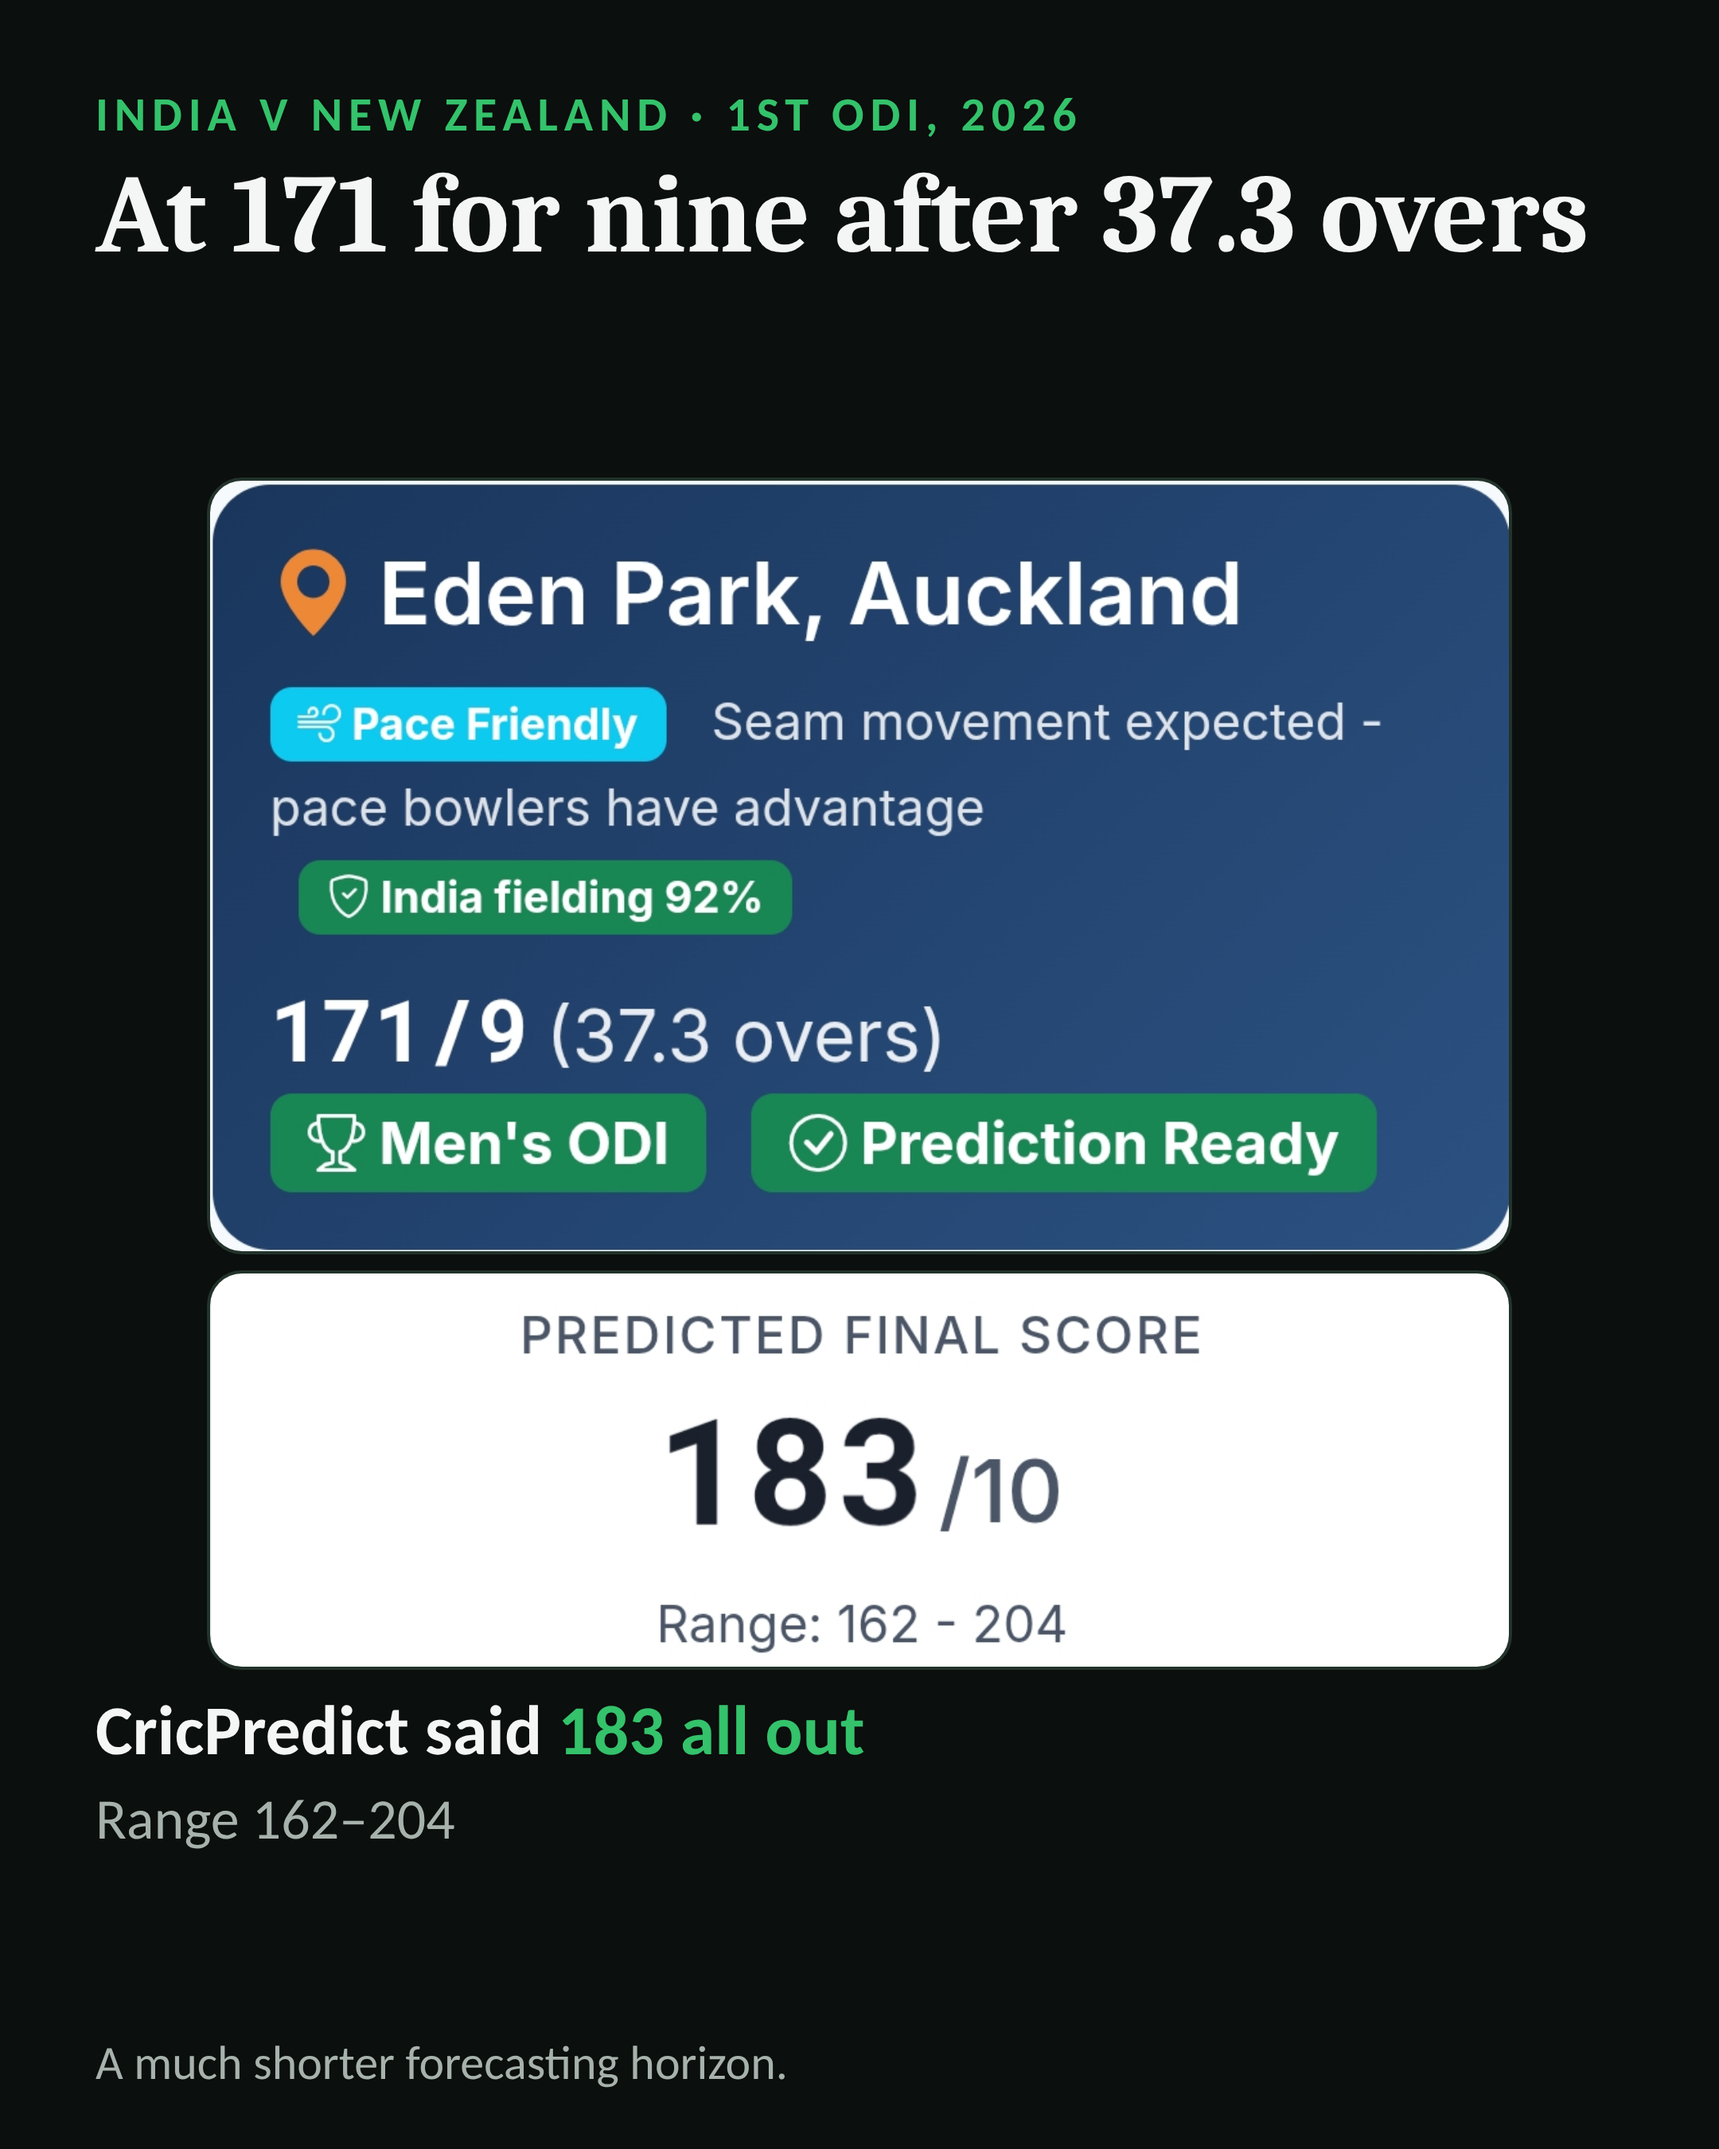
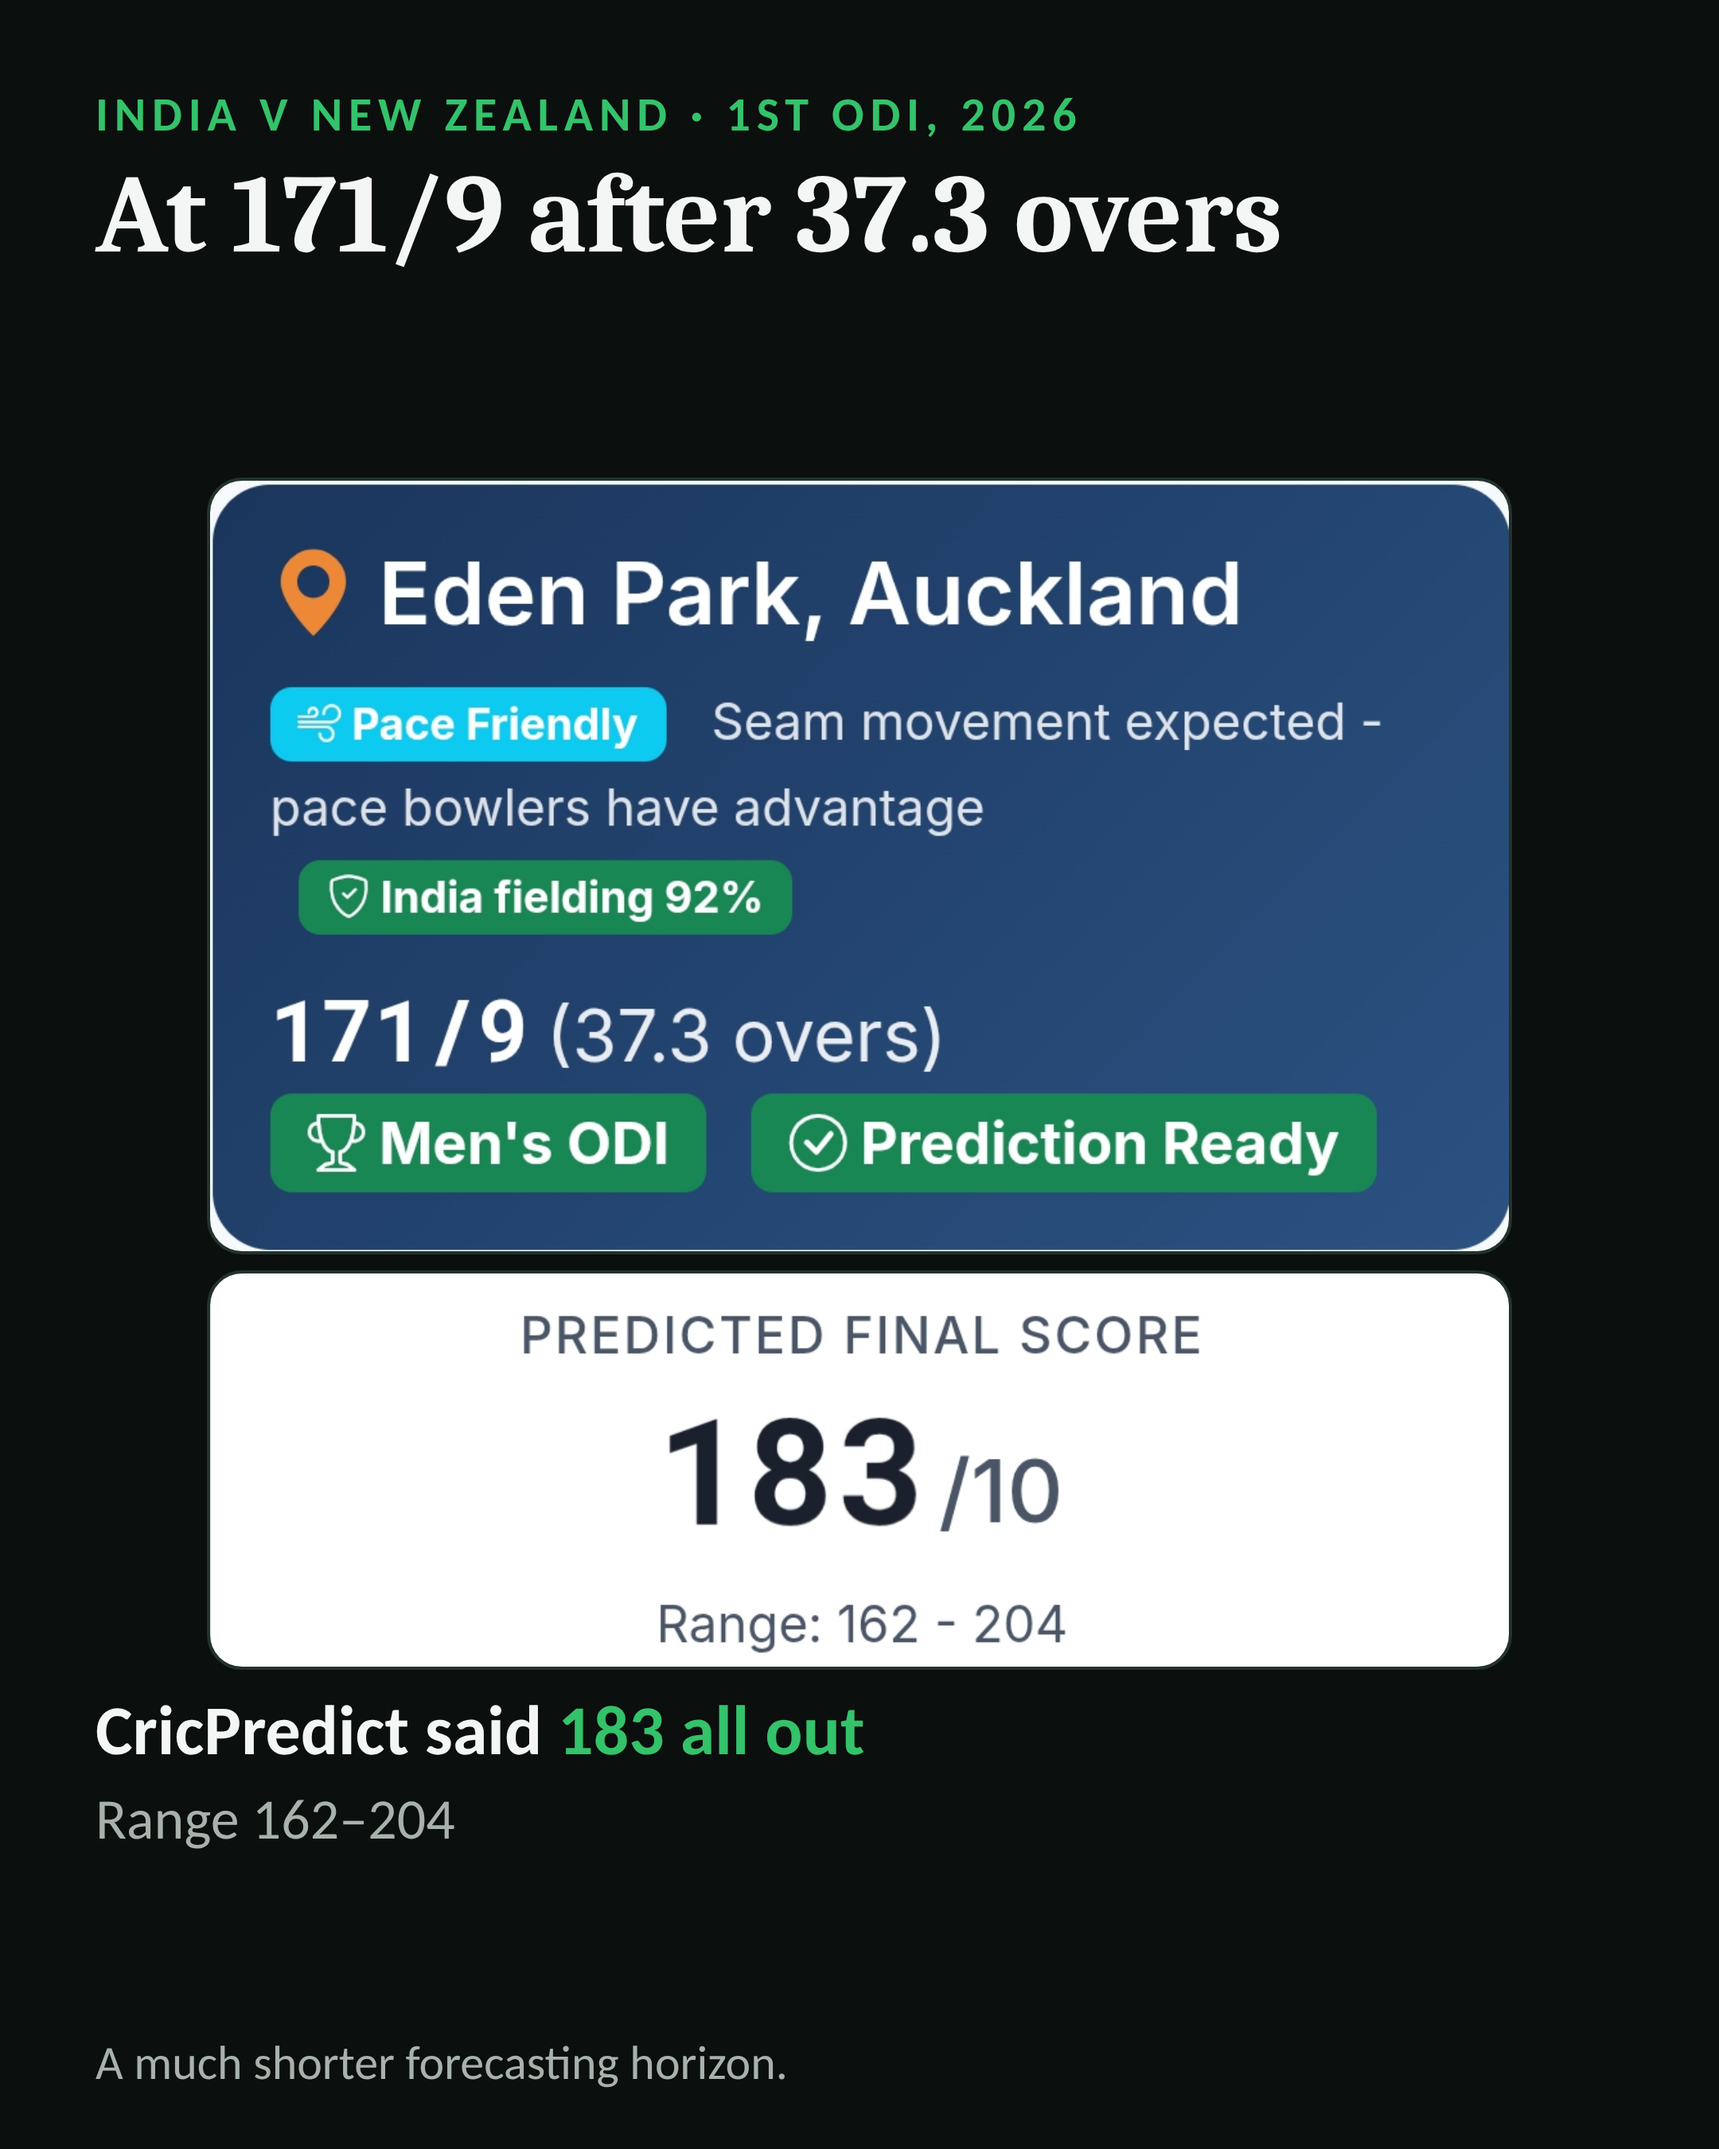
Slide fixes: 84/4 notation, no zoom on score slides, correct what public data shows
Claude-Session: https://claude.ai/code/session_01WemNfgRxdciwJG2j1zSRxe

Changed region(s): [[0.2171, 0.0622, 0.9306, 0.1244]]

diff --git a/presentation/video/linkedin_draft/scenes.html b/presentation/video/linkedin_draft/scenes.html
@@ -61,7 +61,7 @@ h1{position:absolute;left:60px;top:100px;width:960px;font-family:Caladea,Georgia
 <!-- 03a NZ v IND, prediction at 84/4 -->
 <section class="scene" id="s03a_nz_pred">
   <div class="abs kicker">India v New Zealand · 1st ODI, 2026</div>
-  <h1>At 84 for four after 17 overs</h1>
+  <h1>At 84/4 after 17 overs</h1>
   <img class="shot" src="assets/crops/banner_84.png" style="left:130px;top:300px;width:820px">
   <img class="shot" src="assets/crops/score_199.png" style="left:130px;top:798px;width:820px">
   <div class="abs take">CricPredict said <span class="green">199/7</span><small>Range 170–228</small></div>
@@ -70,7 +70,7 @@ h1{position:absolute;left:60px;top:100px;width:960px;font-family:Caladea,Georgia
 <!-- 03b result -->
 <section class="scene" id="s03b_nz_result">
   <div class="abs kicker">India v New Zealand · 1st ODI, 2026</div>
-  <h1>At 84 for four after 17 overs</h1>
+  <h1>At 84/4 after 17 overs</h1>
   <img class="shot" src="assets/crops/banner_84.png" style="left:130px;top:300px;width:820px">
   <img class="shot" src="assets/crops/score_199.png" style="left:130px;top:798px;width:820px">
   <div class="abs take">Finished <span class="mint">185 all out</span><small>14 runs lower, 3 wickets more than predicted</small></div>
@@ -80,7 +80,7 @@ h1{position:absolute;left:60px;top:100px;width:960px;font-family:Caladea,Georgia
 <!-- 04a 171/9 prediction -->
 <section class="scene" id="s04a_171_pred">
   <div class="abs kicker">India v New Zealand · 1st ODI, 2026</div>
-  <h1>At 171 for nine after 37.3 overs</h1>
+  <h1>At 171/9 after 37.3 overs</h1>
   <img class="shot" src="assets/crops/banner_171.png" style="left:130px;top:300px;width:820px">
   <img class="shot" src="assets/crops/score_183.png" style="left:130px;top:798px;width:820px">
   <div class="abs take">CricPredict said <span class="green">183 all out</span><small>Range 162–204</small></div>
@@ -89,7 +89,7 @@ h1{position:absolute;left:60px;top:100px;width:960px;font-family:Caladea,Georgia
 <!-- 04b result -->
 <section class="scene" id="s04b_171_result">
   <div class="abs kicker">India v New Zealand · 1st ODI, 2026</div>
-  <h1>At 171 for nine after 37.3 overs</h1>
+  <h1>At 171/9 after 37.3 overs</h1>
   <img class="shot" src="assets/crops/banner_171.png" style="left:130px;top:300px;width:820px">
   <img class="shot" src="assets/crops/score_183.png" style="left:130px;top:798px;width:820px">
   <div class="abs take">Finished <span class="mint">185 all out</span><small>Two runs off</small></div>
@@ -123,8 +123,8 @@ h1{position:absolute;left:60px;top:100px;width:960px;font-family:Caladea,Georgia
 <section class="scene" id="s06_public_data">
   <div class="abs kicker">Why not just measure it?</div>
   <h1>Public data can't see most of fielding.</h1>
-  <div class="panel" style="top:318px;height:150px"><div class="lab green">RECORDED</div><div class="row" style="margin-top:8px"><span class="chip ok">✔ Catch taken</span><span class="chip ok">✔ Run-out</span></div></div>
-  <div class="panel" style="top:486px;height:268px"><div class="lab amber">NOT RECORDED</div><div class="row"><span class="chip no">✖ Dropped catch</span><span class="chip no">✖ Misfield</span><span class="chip no">✖ Direct hit</span><span class="chip no">✖ Runs saved</span></div></div>
+  <div class="panel" style="top:318px;height:150px"><div class="lab green">RECORDED</div><div class="row" style="margin-top:8px"><span class="chip ok">✔ Catch taken</span><span class="chip ok">✔ Run-out, incl. direct hits</span></div></div>
+  <div class="panel" style="top:486px;height:268px"><div class="lab amber">NOT RECORDED</div><div class="row"><span class="chip no">✖ Dropped catches</span><span class="chip no">✖ Runs saved by brilliant effort</span><span class="chip no">✖ How hard the catch was</span></div></div>
   <div class="panel" style="top:772px;height:262px;padding-top:22px"><div style="font-size:35px;line-height:1.25">Catches and wickets alone mix up fielding with bowling and team quality.</div><div style="font-size:35px;line-height:1.25;margin-top:12px;color:var(--muted)">Event-level fielding data exists, but under paid licences. CricPredict uses free sources only.</div></div>
   <div class="abs take" style="font-size:40px">Fielders are named only on successful dismissals.</div>
 </section>

diff --git a/presentation/video/linkedin_draft/tools/build_talking.py b/presentation/video/linkedin_draft/tools/build_talking.py
@@ -15,7 +15,7 @@ def run(c): subprocess.run(c, check=True, stdout=subprocess.DEVNULL)
 out = subprocess.run(["ffmpeg", "-hide_banner", "-nostats", "-i", SRC, "-af", "silencedetect=n=-42dB:d=0.6", "-f", "null", "-"], capture_output=True, text=True).stderr
 st = [float(x) for x in re.findall(r"silence_start: ([\d.e+-]+)", out)]; en = [float(x) for x in re.findall(r"silence_end: ([\d.e+-]+)", out)]
 sil = [(s, e) for s, e in zip(st, en) if e - s >= cfg["trim_pauses_over"]]
-P = cfg.get('pip', {'size': 250, 'x': 790, 'y': 1060}); pad = cfg["pad"]; fx = cfg["face_center_x"]; cx = int(1280 * fx)
+ZOOM = cfg.get('zoom', 0.0); P = cfg.get('pip', {'size': 250, 'x': 790, 'y': 1060}); pad = cfg["pad"]; fx = cfg["face_center_x"]; cx = int(1280 * fx)
 segs = []; total = 0.0
 for i, b in enumerate(cfg["beats"]):
     a0, b0 = b["src"]; parts = []; t = a0
@@ -37,7 +37,7 @@ for i, b in enumerate(cfg["beats"]):
         run(base + ["-i", str(clip), "-loop", "1", "-framerate", str(FPS), "-t", f"{dur:.3f}", "-i", str(art), "-filter_complex", fc, "-map", "[v]", "-map", "0:a", "-c:v", "libx264", "-crf", "16", "-preset", "veryfast", "-r", str(FPS), "-c:a", "aac", "-b:a", "192k", "-t", f"{dur:.3f}", str(seg)])
     else:
         x0 = max(0, min(1280 - 720, cx - 360))
-        zoom = f"scale=1620:2025,scale=w='trunc(1620*(1+0.04*t/{dur:.3f})/2)*2':h=-2:eval=frame,crop=1620:2025:(iw-1620)/2:(ih-2025)*0.40,scale={W}:{H}"
+        zoom = f"scale=1620:2025,scale=w='trunc(1620*(1+{ZOOM}*t/{dur:.3f})/2)*2':h=-2:eval=frame,crop=1620:2025:(iw-1620)/2:(ih-2025)*0.40,scale={W}:{H}"
         fc = (f"[1:v]{zoom},fps={FPS}[z];[0:v]crop=720:720:{x0}:0,scale={P['size']}:{P['size']},format=rgba,geq=r='r(X,Y)':g='g(X,Y)':b='b(X,Y)':a='if(lte(hypot(X-{P['size']/2},Y-{P['size']/2}),{P['size']/2}),255,0)'[fc];"
               f"[2:v]scale={P['size']}:{P['size']}[r];[z][fc]overlay={P['x']}:{P['y']}[a1];[a1][r]overlay={P['x']}:{P['y']},format=yuv420p[v]")
         run(base + ["-i", str(clip), "-loop", "1", "-framerate", str(FPS), "-t", f"{dur:.3f}", "-i", str(art), "-loop", "1", "-framerate", str(FPS), "-t", f"{dur:.3f}", "-i", str(R / "assets" / "placeholders" / "ring.png"),

diff --git a/presentation/video/fielding_video_script_v4.md b/presentation/video/fielding_video_script_v4.md
@@ -10,13 +10,13 @@ I'm building CricPredict: a cricket prediction app for fans. Entertainment only,
 
 First ODI of India's 2026 tour of New Zealand. Virat Kohli took a one-handed diving catch at second slip to dismiss Nathan Smith. Rohit Sharma made a sharp run-out assist. Moments like these swing a match.
 
-At 84 for four after 17 overs, CricPredict predicted 199 for seven. New Zealand finished 185 all out: fourteen runs lower, but three wickets more than predicted.
+At 84/4 after 17 overs, CricPredict predicted 199/7. New Zealand finished 185 all out: fourteen runs lower, but three wickets more than predicted.
 
-Later, at 171 for nine after 37.3 overs, it predicted 183 all out. Two runs off. Encouraging, but a much shorter horizon.
+Later, at 171/9 after 37.3 overs, it predicted 183 all out. Two runs off. Encouraging, but a much shorter horizon.
 
 Did fielding explain the gap? I can't prove it. But the model has room to improve: in my backtest on men's ODIs, its average error is 41.5 runs. Fielding is one thing it can't see properly. Today it is just one hand-assigned rating per team, a reputation, not who is actually on the field. I think that is part of what's holding accuracy back, on runs and on wickets.
 
-Public ball-by-ball data only names a fielder when a wicket falls. No drops, no misfields, no dives, no runs saved.
+Public ball-by-ball data names a fielder only when a wicket falls, including run-outs from direct hits. It doesn't show dropped catches, runs saved by brilliant effort, or how difficult a catching chance was.
 
 So here is the plan. Start with what public data does give me, the catches and run-outs that end in a wicket, and build a first fielding model from that in shadow mode, knowing its limits. Then, if I can get ball-by-ball fielding data, use it to rate the actual fielders in each XI. Test the effect on runs and wickets separately, on fresh matches. If it doesn't beat the current model, it doesn't ship.
 
